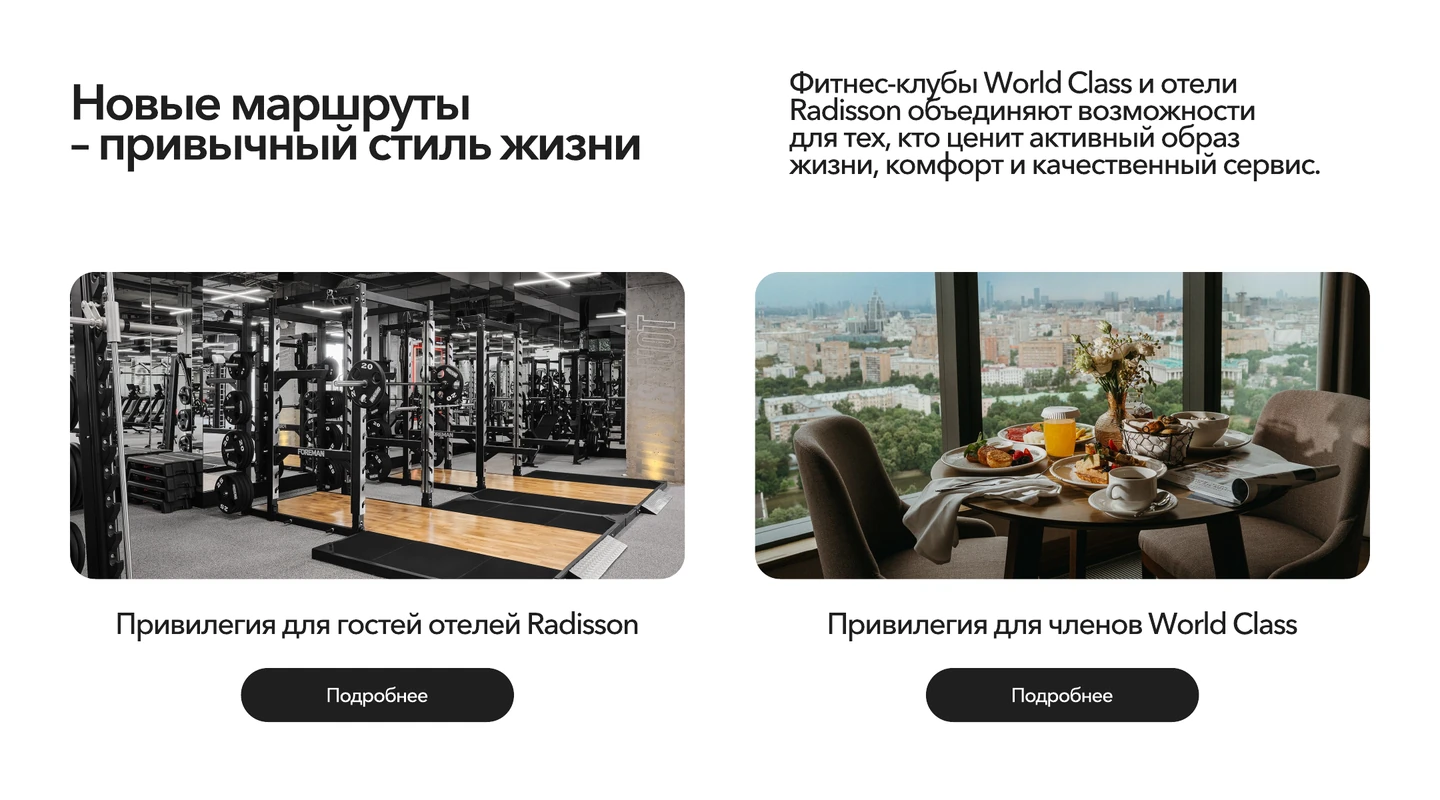
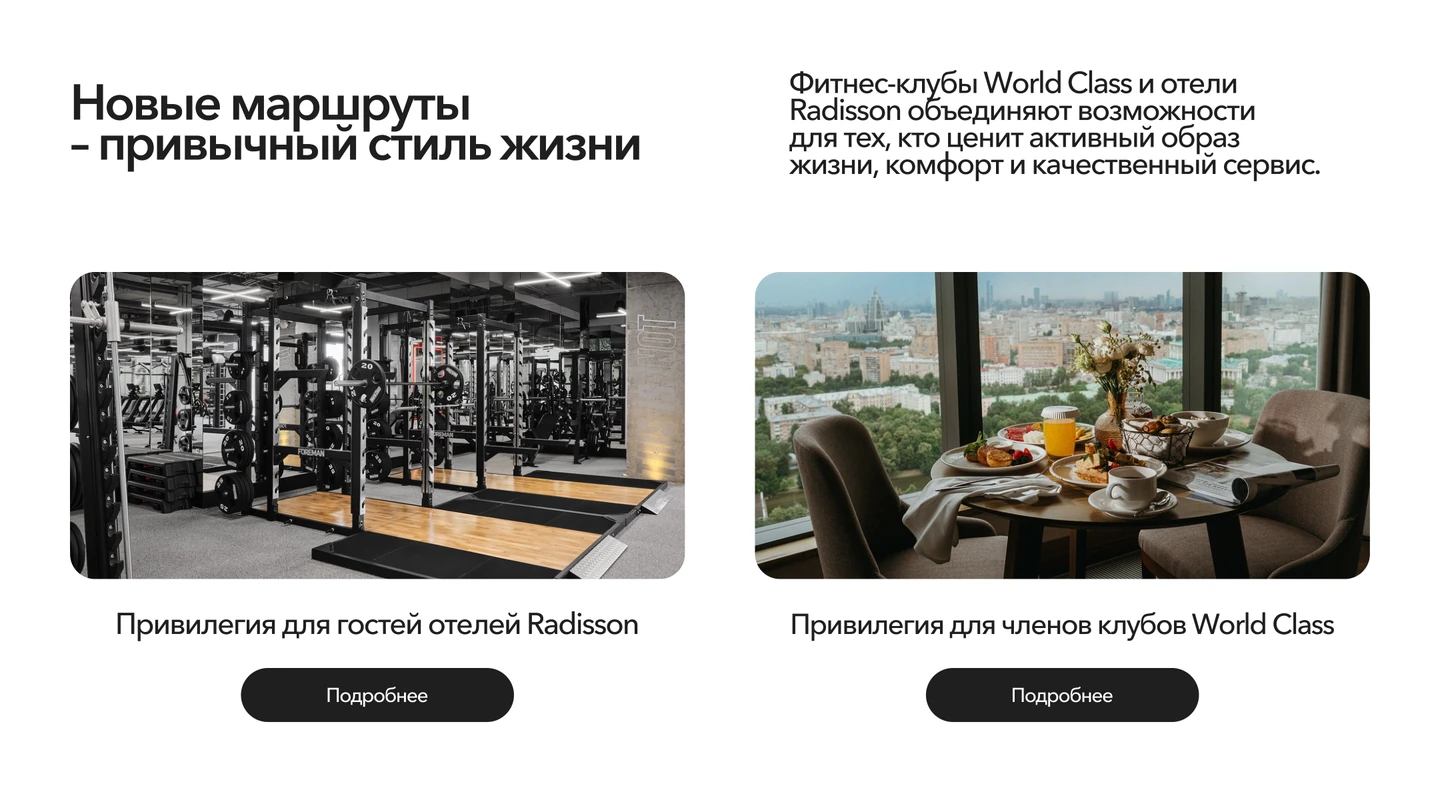
Proofread Russian copy across desktop, mobile artwork and accessible text

diff --git a/index.html b/index.html
@@ -38,35 +38,35 @@
     </picture>
     <a class="hotspot desktop-only" href="#guests" data-action="nav_guests" aria-label="Для гостей отелей Radisson" style="--dx:49.16667%;--dy:7.94118%;--dw:15.27778%;--dh:5.29412%;--mx:0.00000%;--my:0.00000%;--mw:0.00000%;--mh:0.00000%" ><span class="sr-only">Для гостей отелей Radisson</span></a>
 <a class="hotspot desktop-only" href="#members" data-action="nav_members" aria-label="Для членов клубов World Class" style="--dx:64.79167%;--dy:7.94118%;--dw:14.58333%;--dh:5.29412%;--mx:0.00000%;--my:0.00000%;--mw:0.00000%;--mh:0.00000%" ><span class="sr-only">Для членов клубов World Class</span></a>
-<a class="hotspot desktop-only" href="#hotels" data-action="nav_hotels" aria-label="Отели — участники" style="--dx:79.65278%;--dy:7.94118%;--dw:15.48611%;--dh:5.29412%;--mx:0.00000%;--my:0.00000%;--mw:0.00000%;--mh:0.00000%" ><span class="sr-only">Отели — участники</span></a>
+<a class="hotspot desktop-only" href="#hotels" data-action="nav_hotels" aria-label="Отели-участники" style="--dx:79.65278%;--dy:7.94118%;--dw:15.48611%;--dh:5.29412%;--mx:0.00000%;--my:0.00000%;--mw:0.00000%;--mh:0.00000%" ><span class="sr-only">Отели-участники</span></a>
   </section>
   <section id="intro" class="section" aria-label="Выбор привилегии">
     <picture class="art" style="--desktop-ratio:1440/800;--mobile-ratio:375/744">
       <source media="(max-width: 900px)" srcset="./assets/intro-mobile-750.webp" width="750" height="1488">
-      <img src="./assets/intro-desktop-1440.webp" srcset="./assets/intro-desktop-1440.webp 1440w, ./assets/intro-desktop-2160.webp 2160w" sizes="(min-width: 1920px) 1920px, 100vw" width="1440" height="800" alt="Новые маршруты — привычный стиль жизни. Выберите привилегию для гостей Radisson или членов World Class." loading="lazy" decoding="async">
+      <img src="./assets/intro-desktop-1440.webp" srcset="./assets/intro-desktop-1440.webp 1440w, ./assets/intro-desktop-2160.webp 2160w" sizes="(min-width: 1920px) 1920px, 100vw" width="1440" height="800" alt="Новые маршруты — привычный стиль жизни. Выберите привилегию для гостей отелей Radisson или членов клубов World Class." loading="lazy" decoding="async">
     </picture>
-    <a class="hotspot live-button" href="#guests" data-action="details_guests" aria-label="Подробнее о привилегии для гостей Radisson" style="--dx:16.73611%;--dy:83.50000%;--dw:18.95833%;--dh:6.75000%;--mx:19.46667%;--my:52.04301%;--mw:61.06667%;--mh:5.51075%" ><span class="button-label">Подробнее</span></a>
-<a class="hotspot live-button" href="#members" data-action="details_members" aria-label="Подробнее о привилегии для членов World Class" style="--dx:64.30556%;--dy:83.50000%;--dw:18.95833%;--dh:6.75000%;--mx:19.60000%;--my:91.62634%;--mw:61.06667%;--mh:5.51075%" ><span class="button-label">Подробнее</span></a>
+    <a class="hotspot live-button" href="#guests" data-action="details_guests" aria-label="Подробнее о привилегии для гостей отелей Radisson" style="--dx:16.73611%;--dy:83.50000%;--dw:18.95833%;--dh:6.75000%;--mx:19.46667%;--my:52.04301%;--mw:61.06667%;--mh:5.51075%" ><span class="button-label">Подробнее</span></a>
+<a class="hotspot live-button" href="#members" data-action="details_members" aria-label="Подробнее о привилегии для членов клубов World Class" style="--dx:64.30556%;--dy:83.50000%;--dw:18.95833%;--dh:6.75000%;--mx:19.60000%;--my:91.62634%;--mw:61.06667%;--mh:5.51075%" ><span class="button-label">Подробнее</span></a>
   </section>
-  <section id="guests" class="section" aria-label="Для гостей Radisson">
+  <section id="guests" class="section" aria-label="Для гостей отелей Radisson">
     <picture class="art" style="--desktop-ratio:1440/920;--mobile-ratio:375/803">
       <source media="(max-width: 900px)" srcset="./assets/guests-mobile-750.webp" width="750" height="1606">
-      <img src="./assets/guests-desktop-1440.webp" srcset="./assets/guests-desktop-1440.webp 1440w, ./assets/guests-desktop-2160.webp 2160w" sizes="(min-width: 1920px) 1920px, 100vw" width="1440" height="920" alt="Привилегия для гостей Radisson: скидка 15% на годовую карту World Class. Подробные условия доступны в текстовой версии." loading="lazy" decoding="async">
+      <img src="./assets/guests-desktop-1440.webp" srcset="./assets/guests-desktop-1440.webp 1440w, ./assets/guests-desktop-2160.webp 2160w" sizes="(min-width: 1920px) 1920px, 100vw" width="1440" height="920" alt="Привилегия для гостей отелей Radisson: скидка 15% на годовую карту World Class. Подробные условия доступны в текстовой версии." loading="lazy" decoding="async">
     </picture>
     <a class="hotspot live-button" href="https://partners.worldclass.ru" data-action="buy_card" aria-label="Приобрести карту World Class со скидкой 15%" style="--dx:6.18056%;--dy:79.02174%;--dw:43.12500%;--dh:8.80435%;--mx:8.26667%;--my:86.60025%;--mw:83.46667%;--mh:6.72478%" data-outbound><span class="button-label">Приобрести карту</span></a>
   </section>
-  <section id="members" class="section" aria-label="Для членов World Class">
+  <section id="members" class="section" aria-label="Для членов клубов World Class">
     <picture class="art" style="--desktop-ratio:1440/1390;--mobile-ratio:375/1070">
       <source media="(max-width: 900px)" srcset="./assets/members-mobile-750.webp" width="750" height="2140">
-      <img src="./assets/members-desktop-1440.webp" srcset="./assets/members-desktop-1440.webp 1440w, ./assets/members-desktop-2160.webp 2160w" sizes="(min-width: 1920px) 1920px, 100vw" width="1440" height="1390" alt="Привилегия для членов World Class: скидка 15% на бронирование номеров. Промокод Worldclass2026. Подробные условия доступны в текстовой версии." loading="lazy" decoding="async">
+      <img src="./assets/members-desktop-1440.webp" srcset="./assets/members-desktop-1440.webp 1440w, ./assets/members-desktop-2160.webp 2160w" sizes="(min-width: 1920px) 1920px, 100vw" width="1440" height="1390" alt="Привилегия для членов клубов World Class: скидка 15% на бронирование номеров. Промокод Worldclass2026. Подробные условия доступны в текстовой версии." loading="lazy" decoding="async">
     </picture>
     <button type="button" class="hotspot live-button promo-button" data-action="copy_promo" title="Скопировать промокод" aria-label="Скопировать промокод Worldclass2026" style="--dx:5.97222%;--dy:77.69784%;--dw:43.54167%;--dh:6.47482%;--mx:7.73333%;--my:79.17477%;--mw:84.80000%;--mh:8.41121%"><span class="promo-label">Промокод для бронирования</span><span class="promo-value"><span class="promo-code-label">Worldclass2026</span><svg class="copy-icon" viewBox="0 0 24 24" fill="none" stroke="currentColor" stroke-width="1.6" aria-hidden="true"><rect x="8" y="8" width="12" height="12" rx="2"/><path d="M16 8V4H4v12h4"/></svg></span></button>
 <a class="hotspot live-button" href="https://www.radissonhotels.com/ru-ru/" data-action="book_hotel" aria-label="Забронировать отель Radisson" style="--dx:6.18056%;--dy:86.11511%;--dw:43.12500%;--dh:5.82734%;--mx:8.26667%;--my:89.08411%;--mw:83.73333%;--mh:5.04673%" data-outbound><span class="button-label">Забронировать</span></a>
   </section>
-  <section id="hotels" class="section" aria-label="Отели — участники">
+  <section id="hotels" class="section" aria-label="Отели-участники">
     <picture class="art" style="--desktop-ratio:1440/987;--mobile-ratio:375/1445">
       <source media="(max-width: 900px)" srcset="./assets/hotels-mobile-750.webp" width="750" height="2890">
-      <img src="./assets/hotels-desktop-1440.webp" srcset="./assets/hotels-desktop-1440.webp 1440w, ./assets/hotels-desktop-2160.webp 2160w" sizes="(min-width: 1920px) 1920px, 100vw" width="1440" height="987" alt="Отели — участники партнерства. Предложение действует до 31.12.2026. Полный список доступен в текстовой версии." loading="lazy" decoding="async">
+      <img src="./assets/hotels-desktop-1440.webp" srcset="./assets/hotels-desktop-1440.webp 1440w, ./assets/hotels-desktop-2160.webp 2160w" sizes="(min-width: 1920px) 1920px, 100vw" width="1440" height="987" alt="Отели-участники партнёрства. Предложение действует до 31.12.2026. Полный список доступен в текстовой версии." loading="lazy" decoding="async">
     </picture>
     
   </section>
@@ -91,18 +91,18 @@
   </ul>
   <p><a href="https://partners.worldclass.ru" data-outbound data-action="buy_card">Приобрести карту</a></p>
   <h2>Привилегия для членов клубов World Class</h2>
-  <p>Скидка 15% на бронирование номеров с завтраком и без завтраков в отелях — участниках партнерской программы.</p>
+  <p>Скидка 15% на бронирование номеров с завтраком и без завтрака в отелях-участниках партнёрской программы.</p>
   <h3>При заселении в отель необходимо предоставить</h3>
   <p>Для владельца клубной карты World Class: скриншот карты лояльности и/или скриншот личного кабинета владельца клубной карты World Class.</p>
   <p>Для ближайших родственников:</p>
   <ul>
-    <li>Копия свидетельства о заключении брака.</li>
-    <li>Копия свидетельства о рождении.</li>
+    <li>Копию свидетельства о заключении брака.</li>
+    <li>Копию свидетельства о рождении.</li>
   </ul>
-  <p>Промокод при бронировании: <strong>Worldclass2026</strong>.</p>
+  <p>Промокод для бронирования: <strong>Worldclass2026</strong>.</p>
   <button type="button" data-action="copy_promo">Скопировать промокод</button>
   <p><a href="https://www.radissonhotels.com/ru-ru/" data-outbound data-action="book_hotel">Забронировать</a></p>
-  <h2>Отели — участники партнерства</h2>
+  <h2>Отели-участники партнёрства</h2>
   <h3>Москва</h3>
   <ul><li>Гостиница Radisson Collection Москва</li><li>Гостиница Radisson Blu Белорусская, Москва</li><li>Гостиница Radisson Blu Олимпийский, Москва</li><li>Гостиница Radisson Blu Ленинский проспект, Москва</li></ul>
   <h3>Сочи и Роза Хутор</h3>
